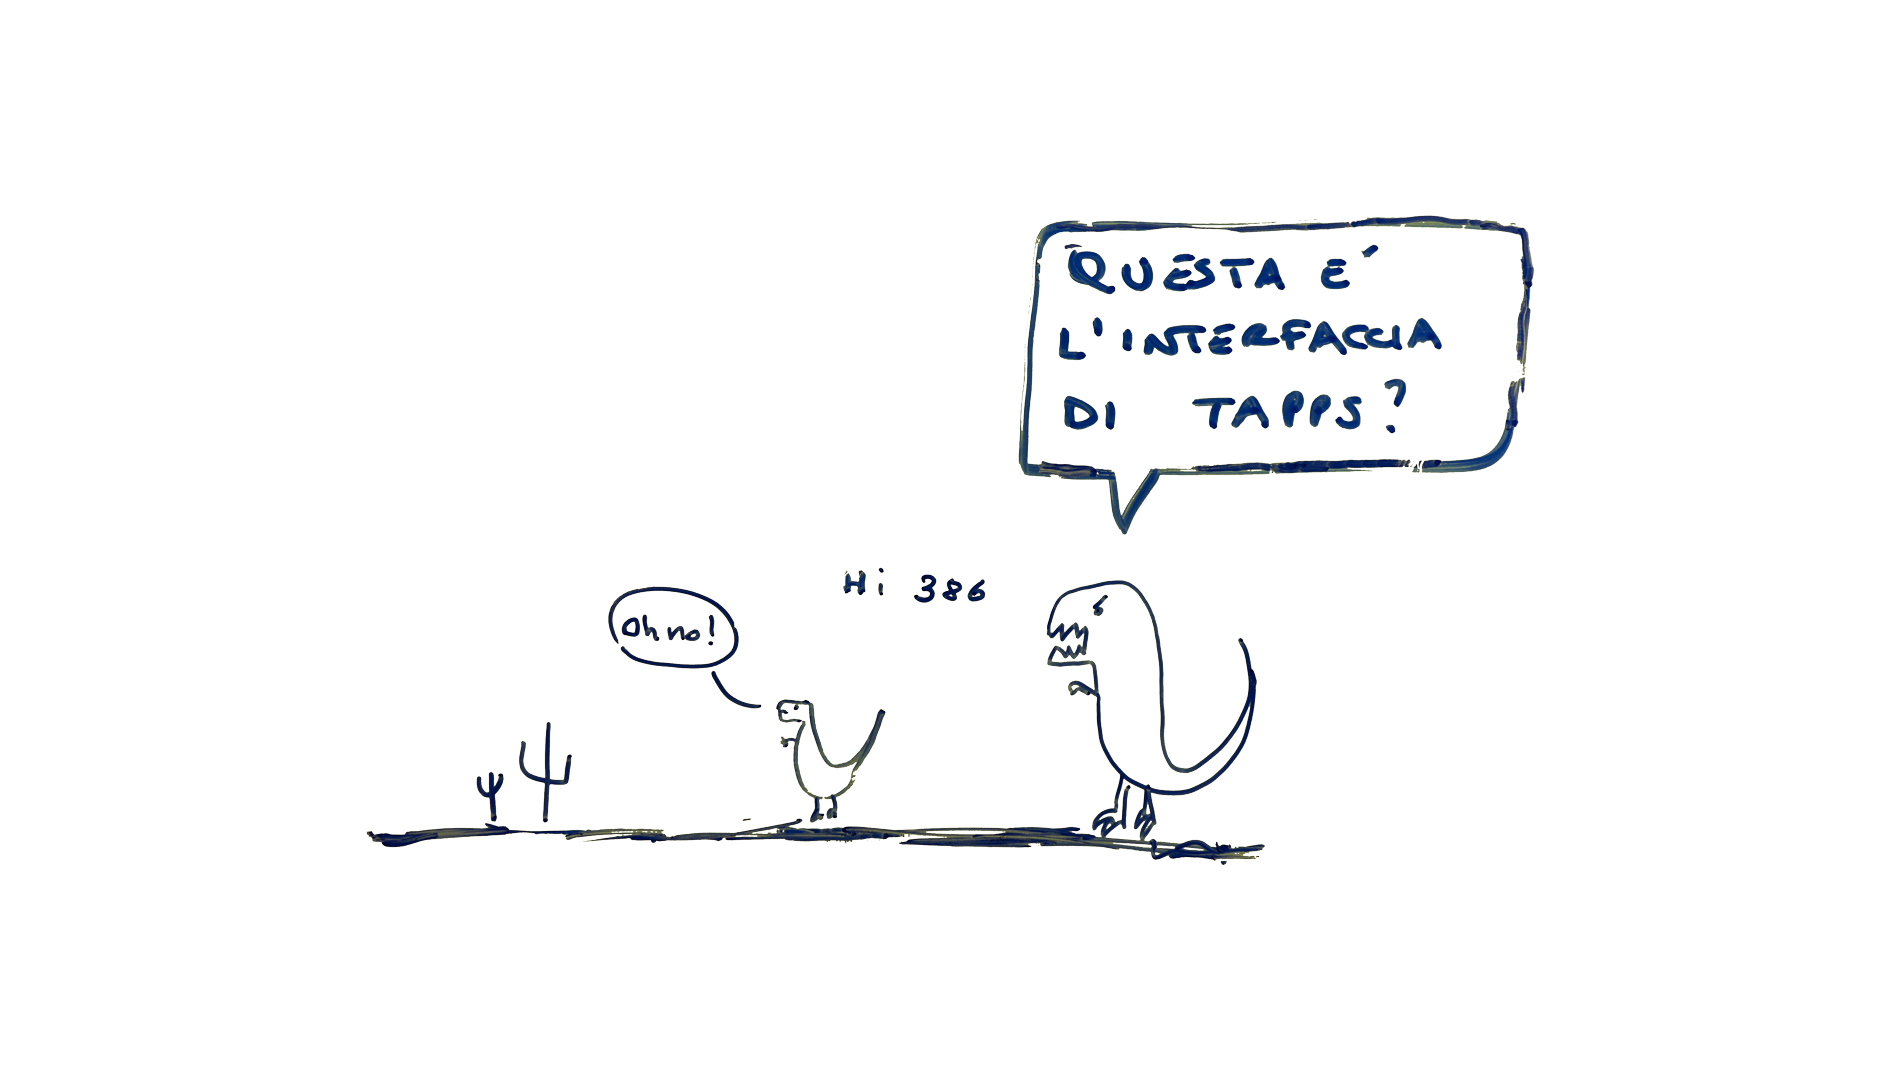
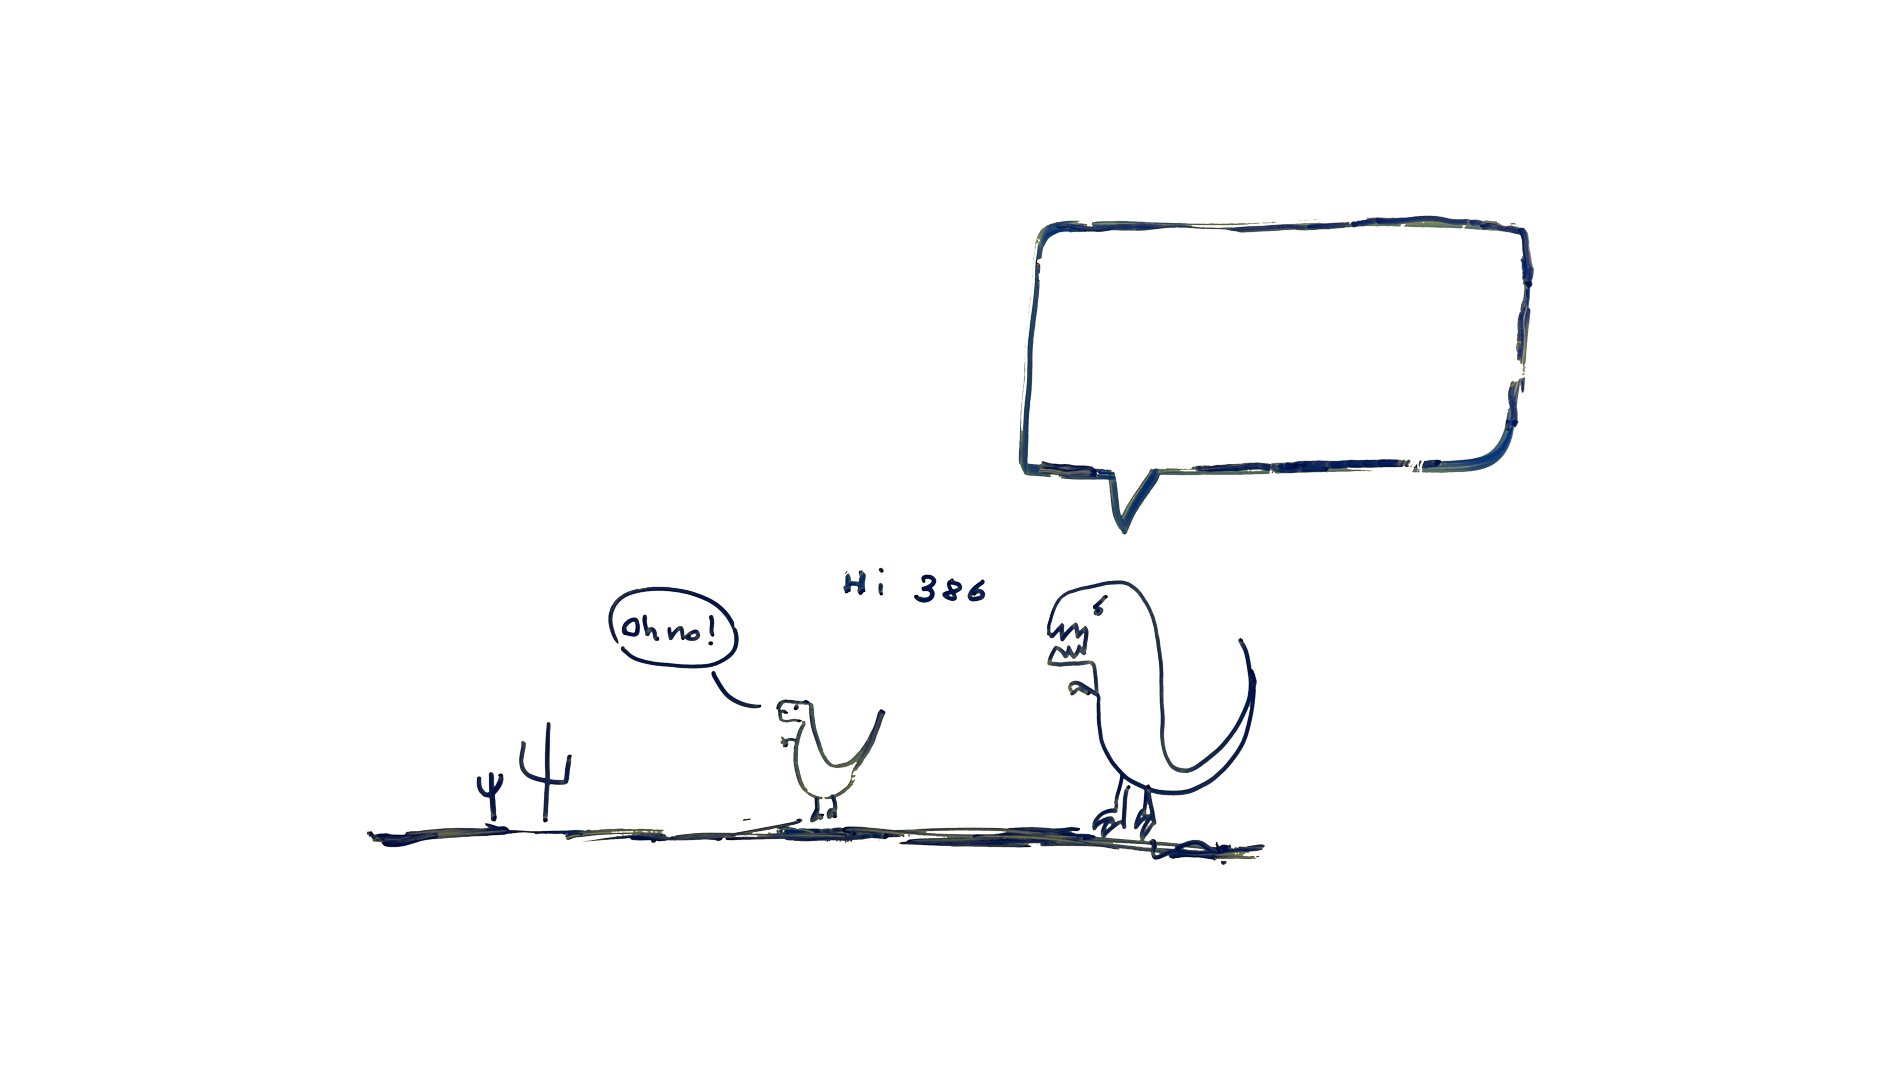
Roba a caso che fa finta di funzionare
La cosa più interessante che è successa e che ho sbagliato a comminare
e ho mandato a quel paese un altro progetto..

Changed region(s): [[0.5589, 0.2139, 0.7763, 0.3972], [0.5589, 0.3667, 0.59, 0.3972]]

diff --git a/src/app/app.module.ts b/src/app/app.module.ts
@@ -2,17 +2,31 @@ import { BrowserModule } from '@angular/platform-browser';
 import { NgModule } from '@angular/core';
 import { FormsModule } from '@angular/forms';
 import { HttpModule } from '@angular/http';
+import { RouterModule } from '@angular/router';
 
 import { AppComponent } from './app.component';
+import { SaurosComponent } from './sauros.component';
 
 @NgModule({
   declarations: [
-    AppComponent
+    AppComponent,
+    SaurosComponent
   ],
   imports: [
     BrowserModule,
     FormsModule,
-    HttpModule
+    HttpModule,
+    RouterModule.forRoot([
+      {
+        path: '',
+        redirectTo: '/Anche oggi una gioia domani...',
+        pathMatch: 'full'
+      },
+      {
+        path: ':id',
+        component: SaurosComponent
+      }
+    ])
   ],
   providers: [],
   bootstrap: [AppComponent]

diff --git a/src/app/sauros.component.ts b/src/app/sauros.component.ts
@@ -1,0 +1,25 @@
+import { Component, OnInit } from '@angular/core';
+import { ActivatedRoute } from '@angular/router';
+
+@Component({
+  selector: 'thesauros',
+  templateUrl: './sauros.component.html',
+  styleUrls: ['./app.component.css']
+})
+export class SaurosComponent implements OnInit {
+  dinosaursays: string;
+  appUrl = "http://localhost:4200/";
+  imageUrl: string;
+
+  constructor(private route: ActivatedRoute) {
+    this.dinosaursays = route.snapshot.params['id'];
+    this.imageUrl = this.appUrl + route.snapshot.params['id'];
+  }
+
+  shareUrl() {
+      alert('Copy this URL and send it to whoever you feel like:' + ' ' + this.appUrl + this.dinosaursays);
+  }
+
+  ngOnInit() {}
+
+}

diff --git a/src/app/sauros.component.html b/src/app/sauros.component.html
@@ -1,0 +1,15 @@
+<div class="container">
+  <div class="row">
+    <div class="col-xs-6"></div>
+    <div class="col-xs-3" centered>
+      <textarea class="form-control input-lg" type="text" [(ngModel)]="dinosaursays"></textarea>
+    </div>
+    <div class="col-xs-3"></div>
+  </div>
+  <div class="row">
+    <img src="../assets/sotto.png" class="img-responsive">
+  </div>
+  <div class="row">
+    <div class="col-md-2 col-md-offset-5"><button (click)="shareUrl()" class="btn btn-default btn-lg btn-block">Share</button></div>
+  </div>
+</div>

diff --git a/src/app/app.component.ts b/src/app/app.component.ts
@@ -1,10 +1,16 @@
-import { Component } from '@angular/core';
+import { Component, OnInit } from '@angular/core';
+import { ActivatedRoute } from '@angular/router';
+import { SaurosComponent } from './sauros.component';
 
 @Component({
   selector: 'app-root',
   templateUrl: './app.component.html',
   styleUrls: ['./app.component.css']
 })
-export class AppComponent {
-  title = 'Oh No! saurs!';
+export class AppComponent implements OnInit {
+
+  constructor() {}
+
+  ngOnInit() {}
+
 }

diff --git a/src/app/app.component.html b/src/app/app.component.html
@@ -1,1 +1,1 @@
-<img src="../assets/placeholder.png" class="img-responsive" alt="Oh no! Saurs!">
+<router-outlet></router-outlet>
